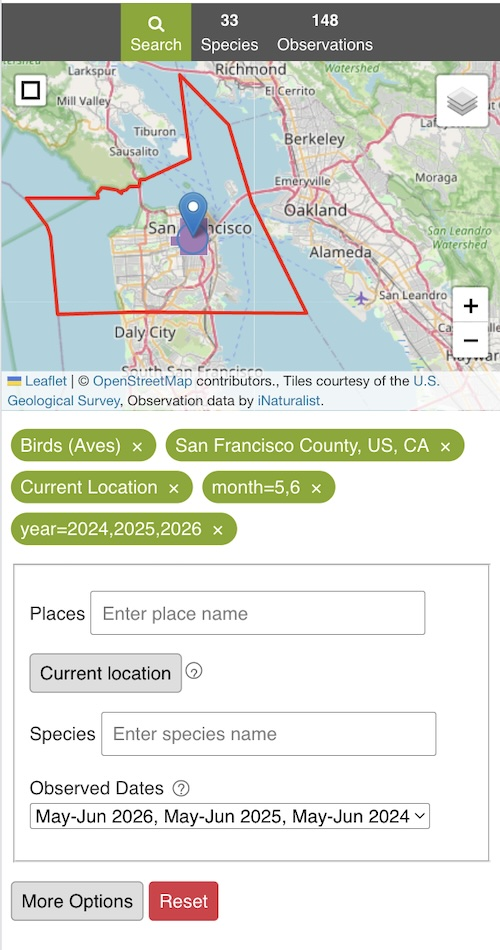
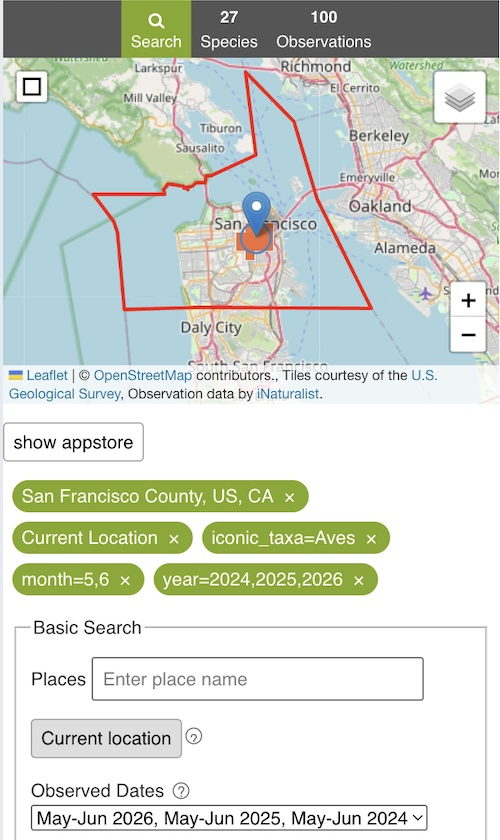
update about page

diff --git a/src/components/PageAbout/template.md b/src/components/PageAbout/template.md
@@ -21,13 +21,13 @@ This site provides a few ways find the species for a given location.
    2. If you want to search for species near your current location, click the "Current Location" button. The app uses your device's GPS, WiFi, or celluar signals to determine your location. By default, the app creates a circular area with a radius of 1 mile (1.6 kilometer) from your current location. You can change the radius using "More Options" > "Geospatial" > "Radius".
    3. If you want to search for species within a custom rectangular area, click the <icon-square></icon-square> icon in the upper left of the map. Click on the map to set one corner of the rectangle, move your cursor, and click the map to set the second corner of the rectangle.
 
-2. **Select species.** By default, this site shows all species. You can search for a species by typing in the species name in "Species" search box. You can search for mutiple species.
+2. **Select species.** By default, this site shows all species. You can search for a species by typing in the species name in "Species" search box. You can search for mutiple species. You can also select one or more of well known species.
 
 3. **Select date.** By default, this site shows all dates. You can select species that were observed during a specific time period by selecting a date range from the "Observed Dates" dropdown. If you want more date options, use 'More Options" > "Date Observed".
 
 4. For more search options, click the "More Options" button.
 
-Here's a search for "birds" in "San Francisco", with currrent location, and May-June 2024-2026 observed dates.
+[Here's a search](/?place_id=854&lat=37.7740&lng=-122.4194&radius=1.6&iconic_taxa=Aves&month=5,6&year=2024,2025,2026) for "birds" in "San Francisco", with currrent location, and May-June 2024-2026 observed dates.
 <img src="/images/search.jpg" width="300px">
 
 Notes:
@@ -52,5 +52,17 @@ If you search for place by name, a badge will be shown in the upper right corner
 Click "Observations" in the top menu to see a list of iNaturalist observations that match your search query.
 
 Click on the observation image to show a popup with all the photos and sounds for the observation.
+
+## Technical Details
+
+This site grabs data from the iNaturalist v2 API (https://api.inaturalist.org/v2/docs/).
+
+This site is built using JavaScript/TypeScript, custom web components, CSS, and HTML. I tried to keep third party library to a minimum. This site uses [Leaflet](https://leafletjs.com/) (maps) and[Autocomplete.js](https://tarekraafat.github.io/autoComplete.js/) (autocomplete search). I also wanted to keep costs low as possible so this is a static site that is hosted for free on Cloudflare Pages.
+
+I did not use AI prompts or vibe coding to build this site.
+
+### Links
+
+- [Github Repo](https://github.com/wykhuh/nature_nearby)
 
 </main>